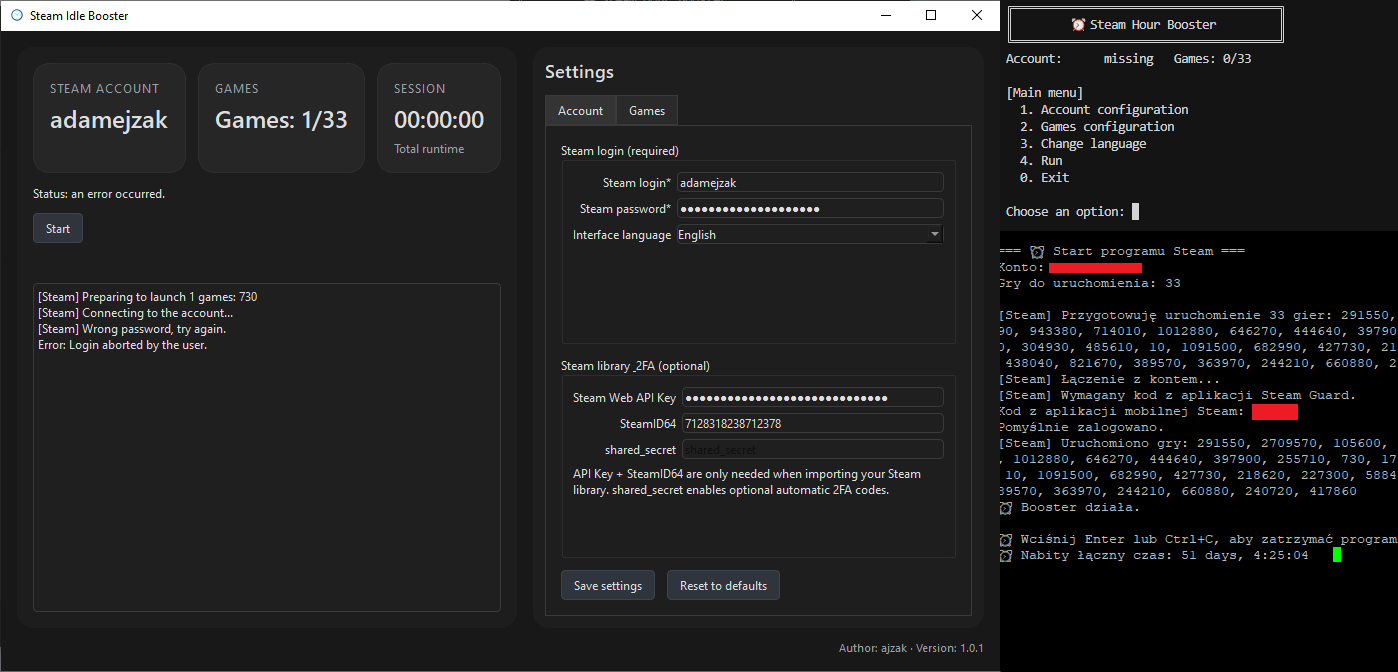
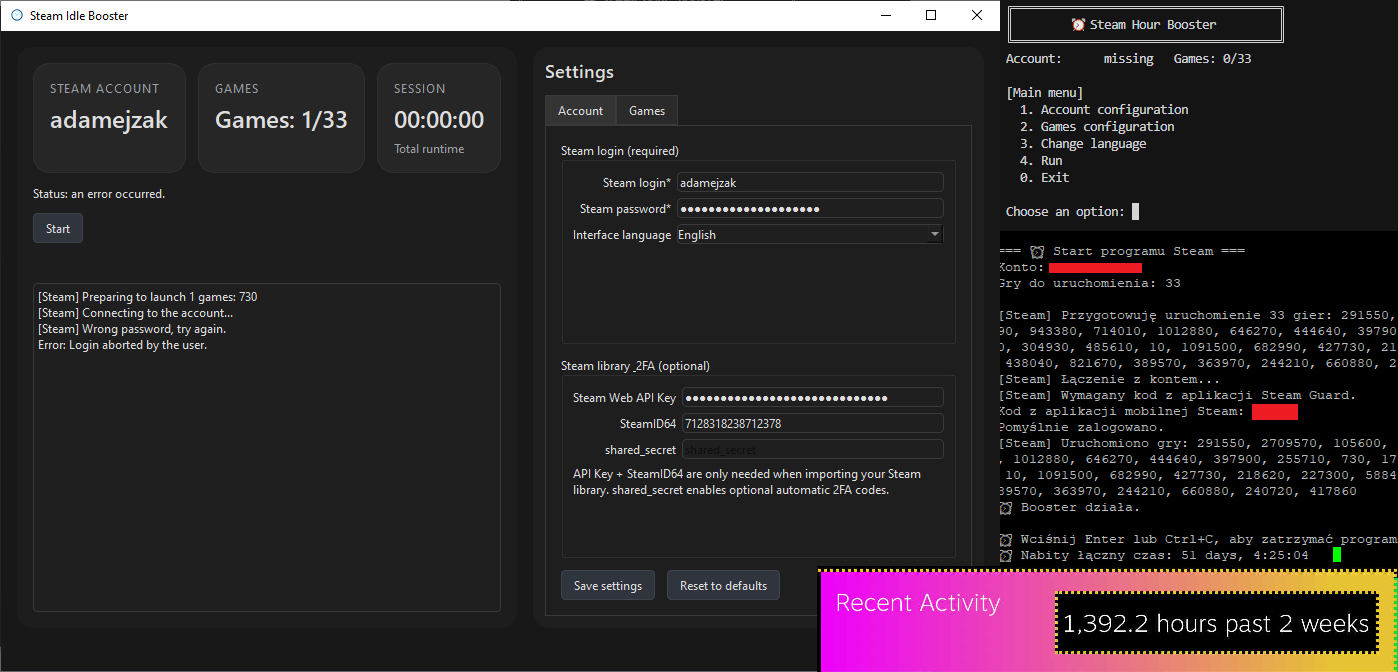
Update README, increment version to 1.0.2, and remove session caching for login keys in SteamIdler

Changed region(s): [[0.5844, 0.8438, 1.0, 1.0]]

diff --git a/steam_hour/steam_idler.py b/steam_hour/steam_idler.py
@@ -7,7 +7,6 @@ import signal
 import threading
 import time
 from datetime import timedelta
-import json
 import re
 from pathlib import Path
 from typing import Iterable, List, Protocol
@@ -26,18 +25,6 @@ from .localization import Localization
 LOG = logging.getLogger("steam_hour.idler")
 _ORIGINAL_LOGGING_SHUTDOWN = logging.shutdown
 _ORIGINAL_HANDLER_RELEASE = logging.Handler.release
-DEFAULT_CREDENTIAL_DIR = Path(".steam_credentials")
-LOGIN_KEY_PREFIX = "login_key_"
-
-
-def _sanitize_username(value: str) -> str:
-    if not value:
-        return "default"
-    return re.sub(r"[^A-Za-z0-9_.-]", "_", value)
-
-
-def _login_key_path(base_dir: Path, username: str) -> Path:
-    return base_dir / f"{LOGIN_KEY_PREFIX}{_sanitize_username(username)}.json"
 
 
 def _safe_logging_shutdown() -> None:
@@ -129,16 +116,12 @@ class SteamIdler:
         self,
         config: AppConfig,
         localization: Localization | None = None,
-        credential_dir: str | Path | None = None,
         ui: IdlerUI | None = None,
         keep_session: bool = False,
     ) -> None:
         self.config = config
         self.localization = localization or Localization(config.language or None)
-        self.credential_dir = Path(credential_dir or DEFAULT_CREDENTIAL_DIR)
-        self.credential_dir.mkdir(parents=True, exist_ok=True)
         self.client = SteamClient()
-        self.client.set_credential_location(str(self.credential_dir))
         self.ui: IdlerUI = ui or ConsoleIdlerUI()
         self.app_directory = SteamAppDirectory()
         self.keep_session = keep_session
@@ -240,15 +223,6 @@ class SteamIdler:
 
         auth_code: str | None = None
         two_factor_code: str | None = None
-        cached_key = self._load_login_key(username)
-        if cached_key:
-            result = self.client.login(username=username, login_key=cached_key)
-            if result == EResult.OK:
-                self._save_login_key(username)
-                self.ui.log(self.t("steam.login.success"))
-                return
-            LOG.info("Stored login key invalid (result=%s); falling back to password.", result)
-            self._delete_login_key(username)
 
         while True:
             if shared_secret and not two_factor_code:
@@ -264,7 +238,6 @@ class SteamIdler:
                 two_factor_code=two_factor_code,
             )
             if result == EResult.OK:
-                self._save_login_key(username)
                 self.ui.log(self.t("steam.login.success"))
                 return
             if result == EResult.AccountLogonDenied:
@@ -296,50 +269,8 @@ class SteamIdler:
                 continue
             raise SteamLoginError(self.t("steam.login.error_generic", result=result.name))
 
-    def _load_login_key(self, username: str) -> str | None:
-        if not username:
-            return None
-        path = _login_key_path(self.credential_dir, username)
-        if not path.exists():
-            return None
-        try:
-            payload = json.loads(path.read_text(encoding="utf-8"))
-        except (json.JSONDecodeError, OSError):
-            try:
-                path.unlink()
-            except OSError:
-                pass
-            return None
-        token = payload.get("login_key")
-        if not token:
-            try:
-                path.unlink()
-            except OSError:
-                pass
-            return None
-        return str(token)
-
-    def _save_login_key(self, username: str) -> None:
-        if not username:
-            return
-        login_key = getattr(self.client, "login_key", None)
-        if not login_key:
-            return
-        payload = {"login_key": login_key, "updated_at": int(time.time())}
-        path = _login_key_path(self.credential_dir, username)
-        try:
-            path.write_text(json.dumps(payload), encoding="utf-8")
-        except OSError:
-            LOG.debug("Failed to persist login_key for %s", username)
-
-    def _delete_login_key(self, username: str) -> None:
-        if not username:
-            return
-        path = _login_key_path(self.credential_dir, username)
-        try:
-            path.unlink()
-        except OSError:
-            pass
+    # Session caching via login_key has been removed. Each run now requires
+    # a fresh login using username/password (and Steam Guard when applicable).
 
     def _set_persona_online(self) -> None:
         """Try multiple APIs to set persona so the account appears online."""
@@ -422,40 +353,4 @@ class SteamIdler:
 
     def _format_games_preview(self, games: Iterable[int]) -> str:
         return ", ".join(self.app_directory.format_entry(app_id) for app_id in games)
-
-    @staticmethod
-    def has_cached_session(
-        username: str | None = None, credential_dir: str | Path | None = None
-    ) -> bool:
-        target = Path(credential_dir or DEFAULT_CREDENTIAL_DIR)
-        if not target.exists():
-            return False
-        if username:
-            return _login_key_path(target, username).exists()
-        try:
-            return any(target.glob(f"{LOGIN_KEY_PREFIX}*.json"))
-        except OSError:
-            return False
-
-    @staticmethod
-    def clear_cached_session(
-        username: str | None = None, credential_dir: str | Path | None = None
-    ) -> None:
-        target = Path(credential_dir or DEFAULT_CREDENTIAL_DIR)
-        if not target.exists():
-            return
-        if username:
-            path = _login_key_path(target, username)
-            try:
-                path.unlink()
-            except OSError:
-                pass
-            return
-        for entry in list(target.glob(f"{LOGIN_KEY_PREFIX}*.json")):
-            try:
-                entry.unlink()
-            except OSError:
-                continue
-
-
 

diff --git a/steam_hour/gui_app.py b/steam_hour/gui_app.py
@@ -104,6 +104,12 @@ QDoubleSpinBox {
     border-radius: 4px;
     selection-background-color: #3b7dd8;
     selection-color: #f5f5f5;
+    color: #f4f5f7;
+}
+QLineEdit::placeholder,
+QPlainTextEdit::placeholder,
+QTextEdit::placeholder {
+    color: #c7cfdd;
 }
 QTabWidget::pane {
     border: 1px solid #3a3a3a;
@@ -1231,10 +1237,13 @@ def _apply_dark_theme(app: QApplication) -> None:
     palette.setColor(QPalette.Link, QColor(114, 159, 207))
     palette.setColor(QPalette.LinkVisited, QColor(172, 146, 235))
     palette.setColor(QPalette.Shadow, QColor(0, 0, 0))
+    placeholder = QColor(186, 196, 212)
+    palette.setColor(QPalette.PlaceholderText, placeholder)
 
     palette.setColor(QPalette.Disabled, QPalette.Text, disabled_fg)
     palette.setColor(QPalette.Disabled, QPalette.ButtonText, disabled_fg)
     palette.setColor(QPalette.Disabled, QPalette.WindowText, disabled_fg)
+    palette.setColor(QPalette.Disabled, QPalette.PlaceholderText, placeholder.darker(125))
     palette.setColor(QPalette.Disabled, QPalette.Highlight, QColor(55, 55, 55))
     palette.setColor(QPalette.Disabled, QPalette.HighlightedText, QColor(170, 170, 170))
 

diff --git a/steam_hour/version.py b/steam_hour/version.py
@@ -5,7 +5,7 @@ from typing import Tuple
 
 import requests
 
-CURRENT_VERSION = "1.0.1"
+CURRENT_VERSION = "1.0.2"
 VERSION_CHECK_URL = "https://raw.githubusercontent.com/adamejzak/steam-idle-booster/refs/heads/main/VERSION"
 REPOSITORY_URL = "https://github.com/adamejzak/steam-idle-booster/"
 

diff --git a/README.md b/README.md
@@ -40,7 +40,7 @@ Minimal examples from the project directory:
 - **Windows GUI (.exe):**
 
   Download the latest `SteamIdleBooster-win.exe` from [Releases](https://github.com/adamejzak/steam-idle-booster/releases/),  
-  place it in its own folder and run it by double-clicking. *(PL: najlepiej w osobnym katalogu, bo obok tworzy `config.json` i `.steam_credentials`.)*
+  place it in its own folder and run it by double-clicking. *(PL: najlepiej w osobnym katalogu, bo obok tworzy `config.json`.)*
 
 More usage examples and detailed flows are available in the Wiki.
 
